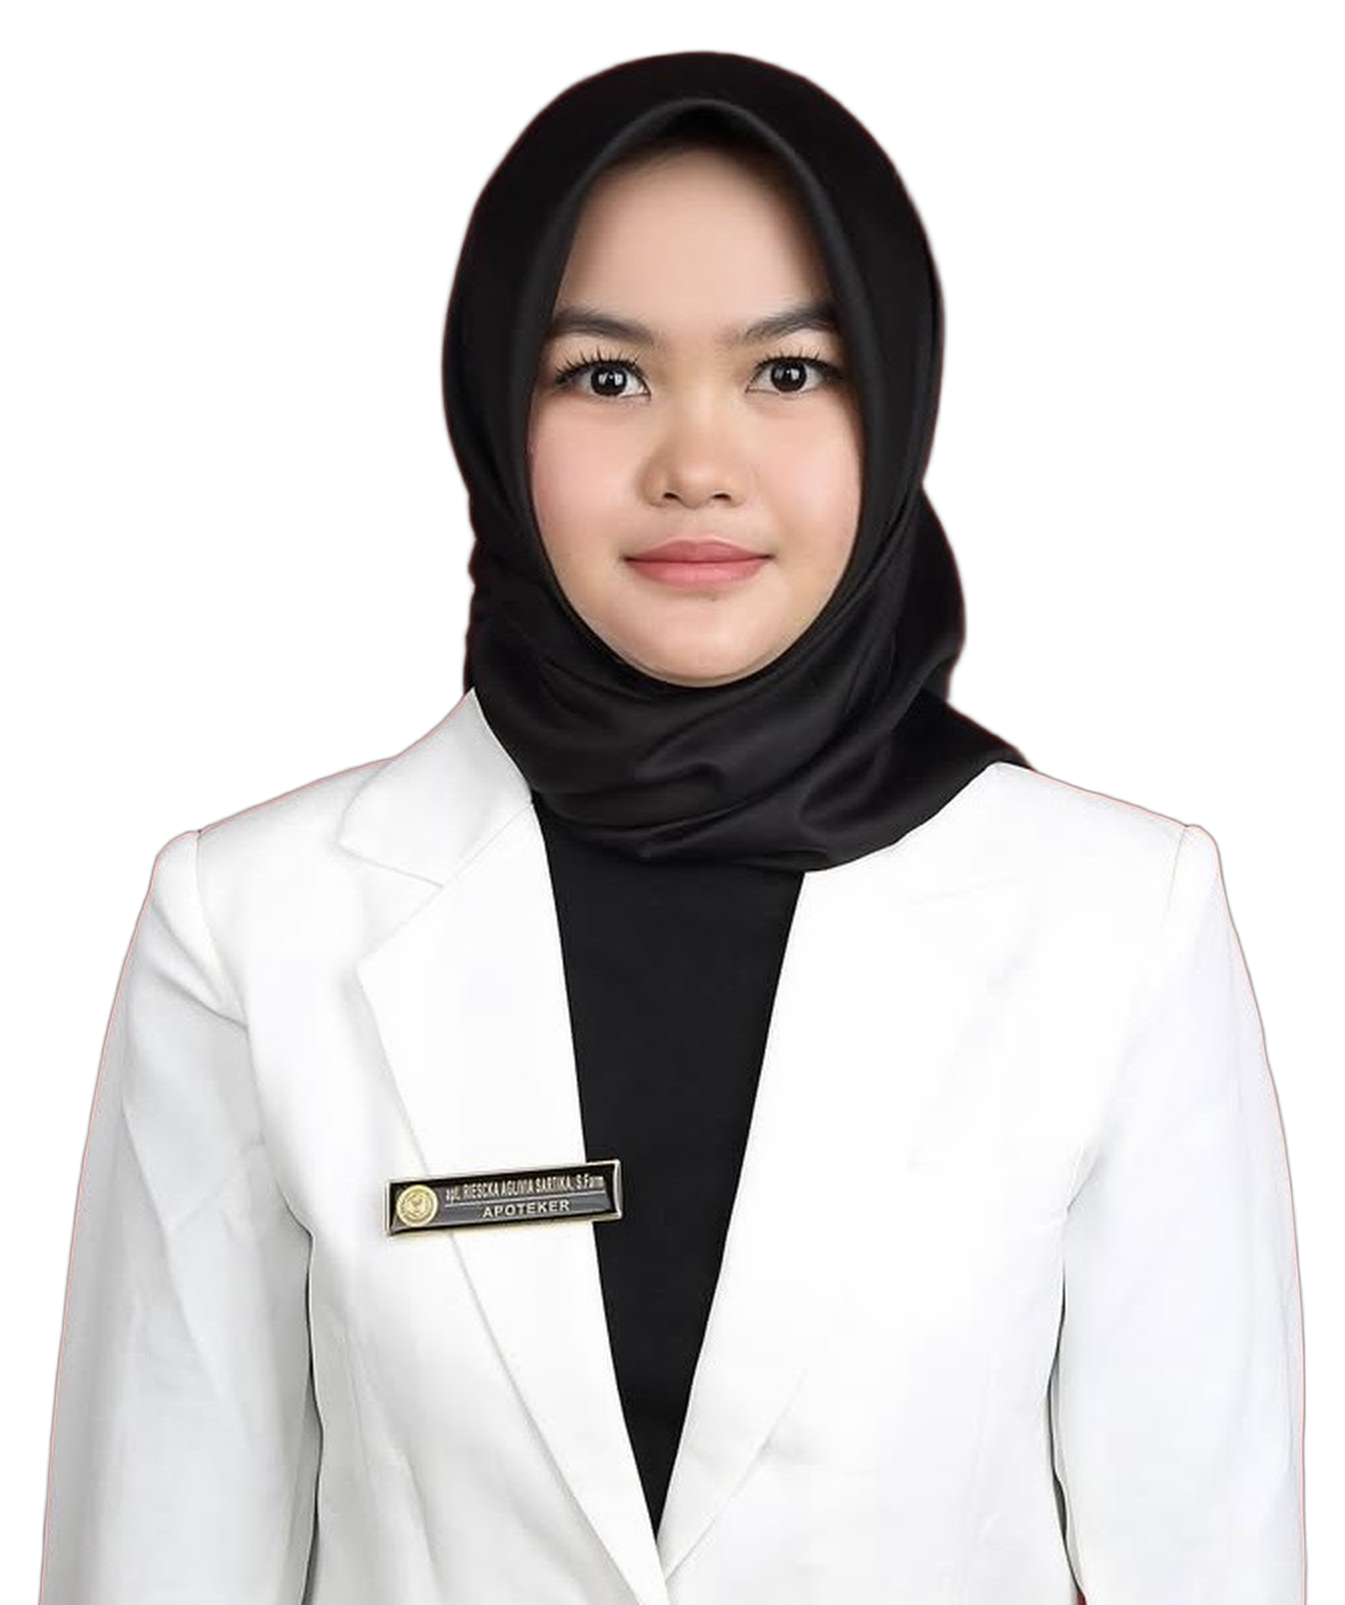
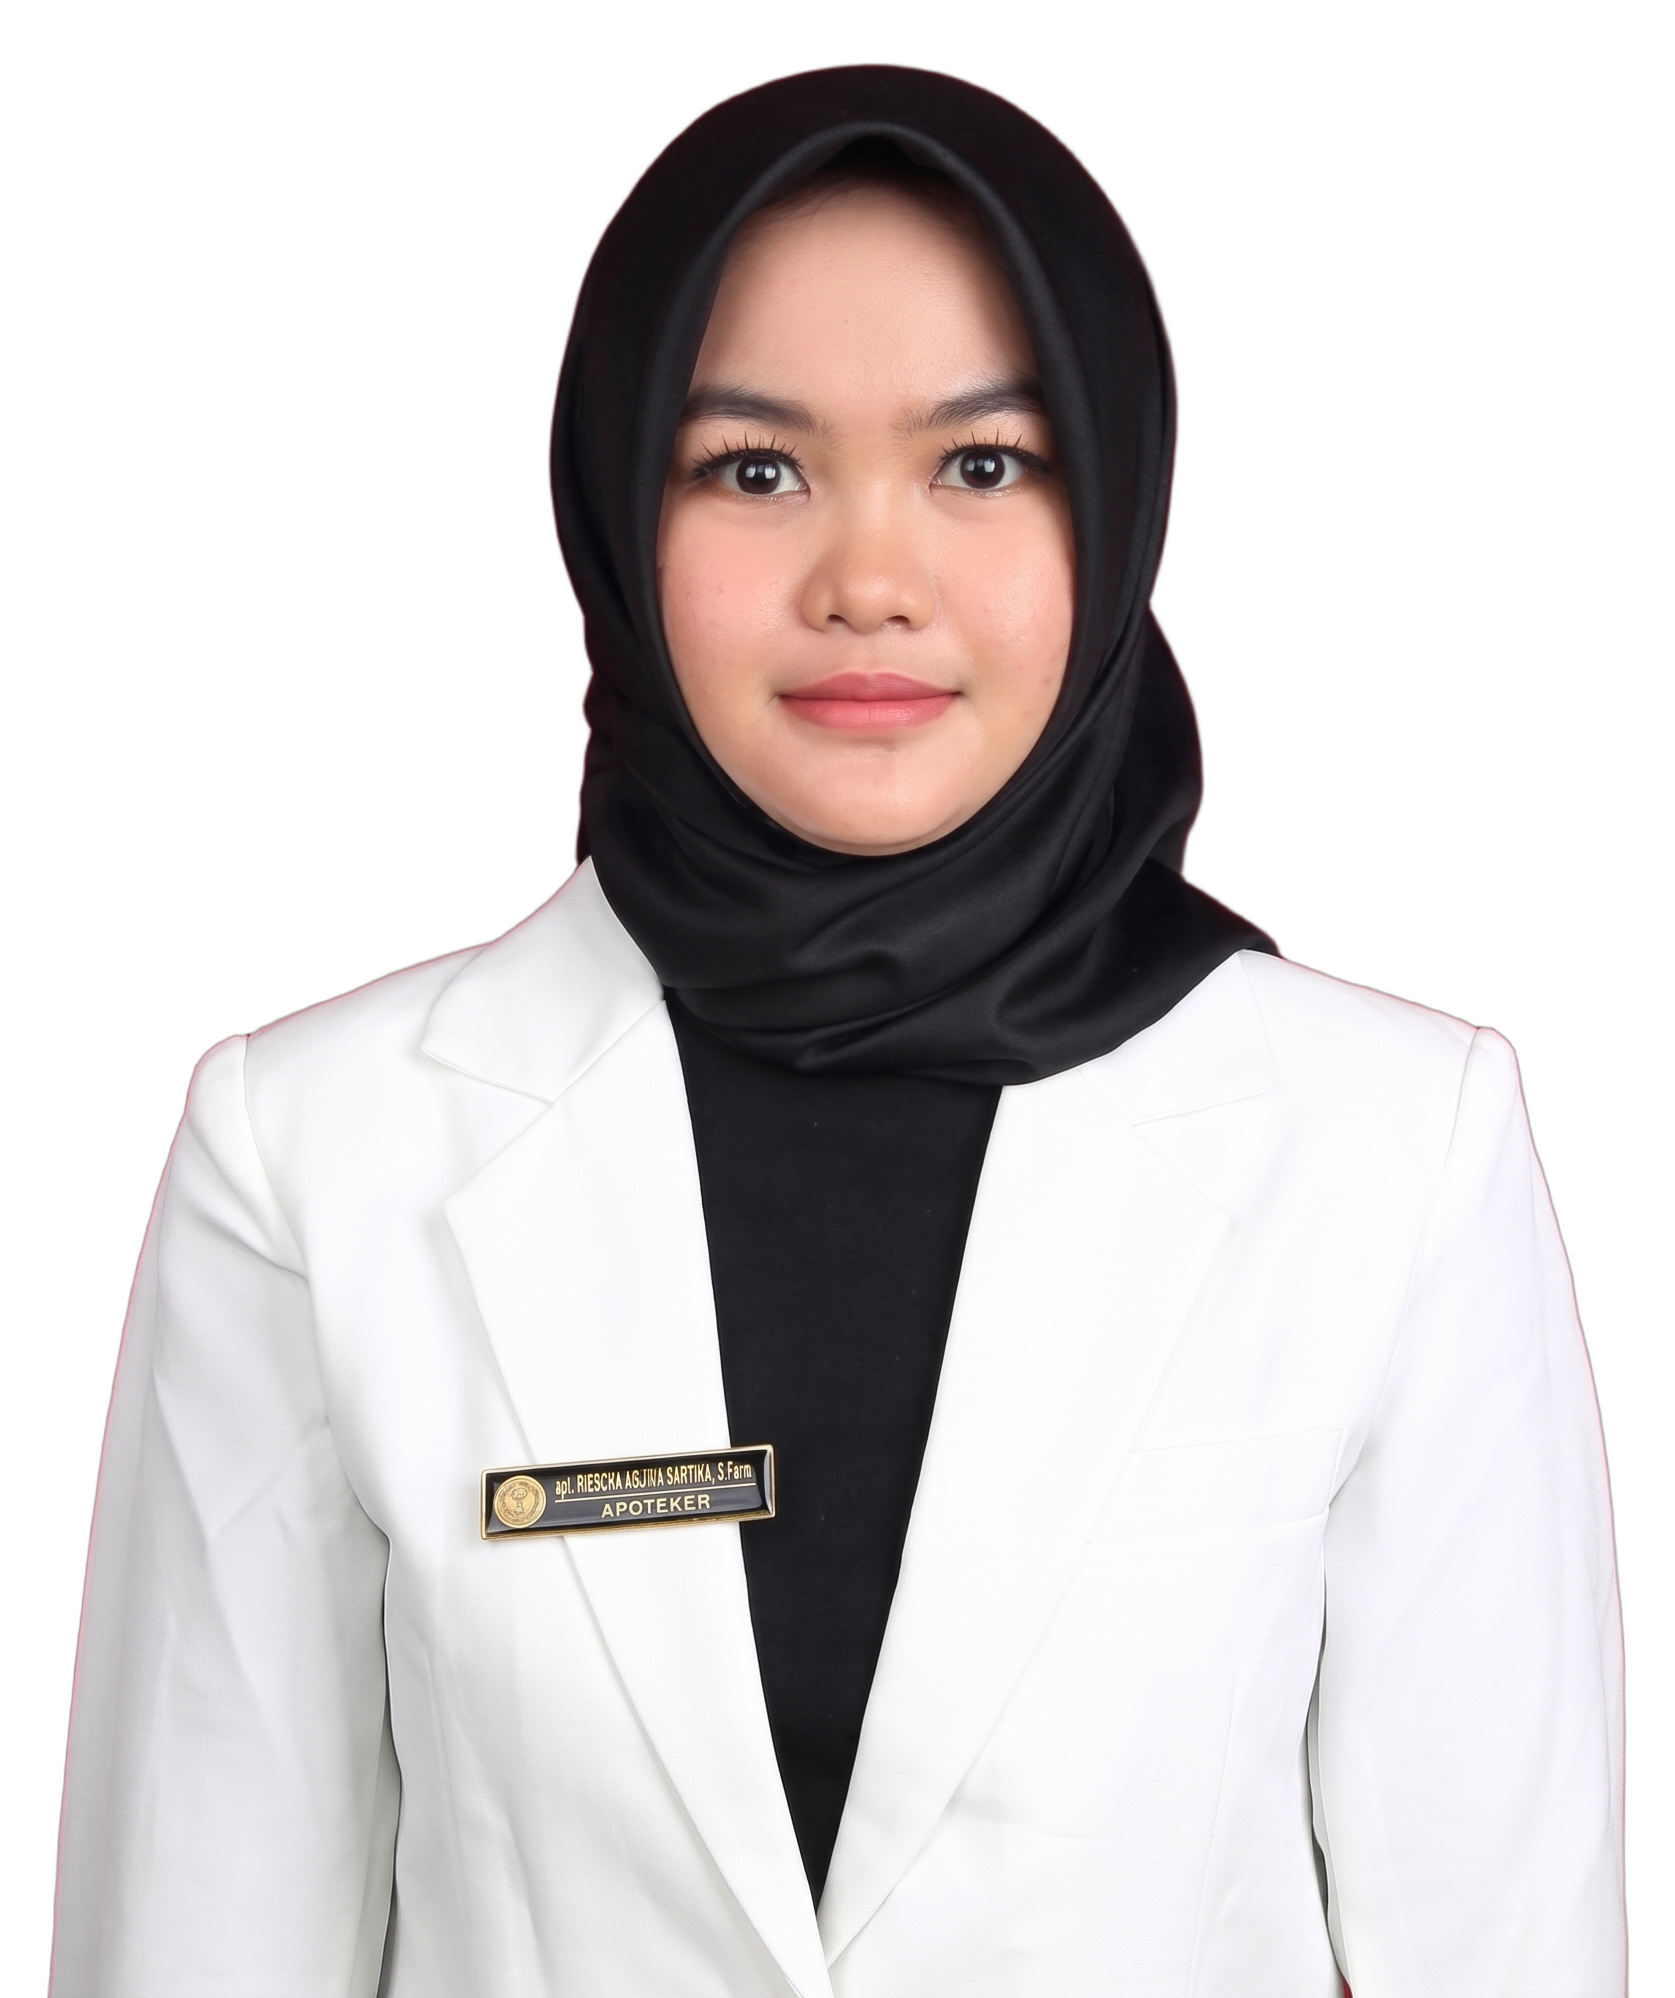
ORDER 25: ganti foto profil, profesi, dan wisuda dengan versi resolusi tinggi dari klien

diff --git a/docs/superpowers/specs/2026-11-06-order-25-riescka-design.md b/docs/superpowers/specs/2026-11-06-order-25-riescka-design.md
@@ -7,7 +7,7 @@ Klien tidak punya banyak foto kegiatan; kalau tidak ada foto, tidak perlu foto, 
 
 ## Keputusan desain (pilihan pembuat situs)
 - Kode dasar ORDER 22 (apoteker), tema hijau.
-- Hero dan foto profil: `PAS FOTO HIJAB.png` (latar merah dipotong, cutout rembg, diperbesar 2x karena sumber hanya 827 px).
+- Hero dan foto profil: `Profil.jpg` (2058 px, latar merah dipotong dengan rembg). Foto Profesi: `Profesi.jpg`; foto S1: `Wisuda.jpg` (klien mengirim ulang versi beresolusi tinggi).
 - Bagian: Tentang, Pendidikan (2), Pengalaman Kerja (3), Magang/PKPA (2), Lisensi (STR dan Sertifikat Kompetensi), Keahlian, Karakter Kerja, Kontak.
 - Tidak ada bagian organisasi, proyek, publikasi, atau software karena CV tidak memuatnya.
 - Kemampuan personal tampil sebagai 10 chip tanpa deskripsi (CV hanya memuat kata sifat).
@@ -18,9 +18,9 @@ Klien tidak punya banyak foto kegiatan; kalau tidak ada foto, tidak perlu foto, 
 ## Daftar perbedaan CV vs foto (untuk klien)
 1. Tidak ada foto untuk Apotek Medika Jaya, Klinik Ananda Setia Budi, Klinik Sudirjo Partodimedjo, RSUD Cibabat, dan Kimia Farma Apotek 335. Ditampilkan sebagai kartu teks saja (keputusan atasan: tanpa foto tidak apa-apa).
 2. Empat foto (`IMG_0548`, `IMG_0556`, `IMG_0557`, `IMG_0561`) adalah foto liburan (jip di gunung, malam di kota, rusa, gerbang kayu); tidak berhubungan dengan CV, tidak dipakai.
-3. `IMG_2209` (jas putih dengan selempang "PUJIAN", map ijazah) dipakai untuk Profesi Apoteker; `IMG_2208` (toga, spanduk "Wisuda XIX ... Bhakti Pertiwi 2017-2018") untuk S1. Penanda "2/5" Instagram di `IMG_2209` dihapus. Mohon konfirmasi bahwa foto Profesi memang dari UNJANI.
+3. `Profesi.jpg` (jas putih, selempang "PUJIAN", map ijazah) dipakai untuk Profesi Apoteker; `Wisuda.jpg` (toga, spanduk "Wisuda XIX ... Bhakti Pertiwi 2017-2018") untuk S1. Mohon konfirmasi bahwa foto Profesi memang dari UNJANI.
 4. `IMG_2210` (jas putih, kedua tangan bersilang) resolusi rendah (320 px, terpotong); tidak dipakai.
-5. Resolusi pas foto kecil (827 px); hero akan lebih tajam bila klien mengirim file asli.
+5. `Profil.jpg` papan namanya terbaca "apt. Riescka Aglivia Sartika, S.Farm." sehingga gelar di situs sesuai.
 6. CV menulis "Universitas Jendral Achmad Yani"; situs memakai ejaan resmi "Jenderal". CV menulis "Partodimedjo" pada nama klinik; dipakai apa adanya.
 7. Periode kerja di CV tumpang tindih: Apotek Medika Jaya 2021-2025, Klinik Ananda 2022-2023, Klinik Sudirjo 2020-2022. Ditampilkan apa adanya.
 8. STR dan Sertifikat Kompetensi tidak mencantumkan tahun dan tidak ada berkasnya; tampil sebagai kartu teks tanpa tahun. Mohon kirim berkasnya bila ingin ditampilkan.
